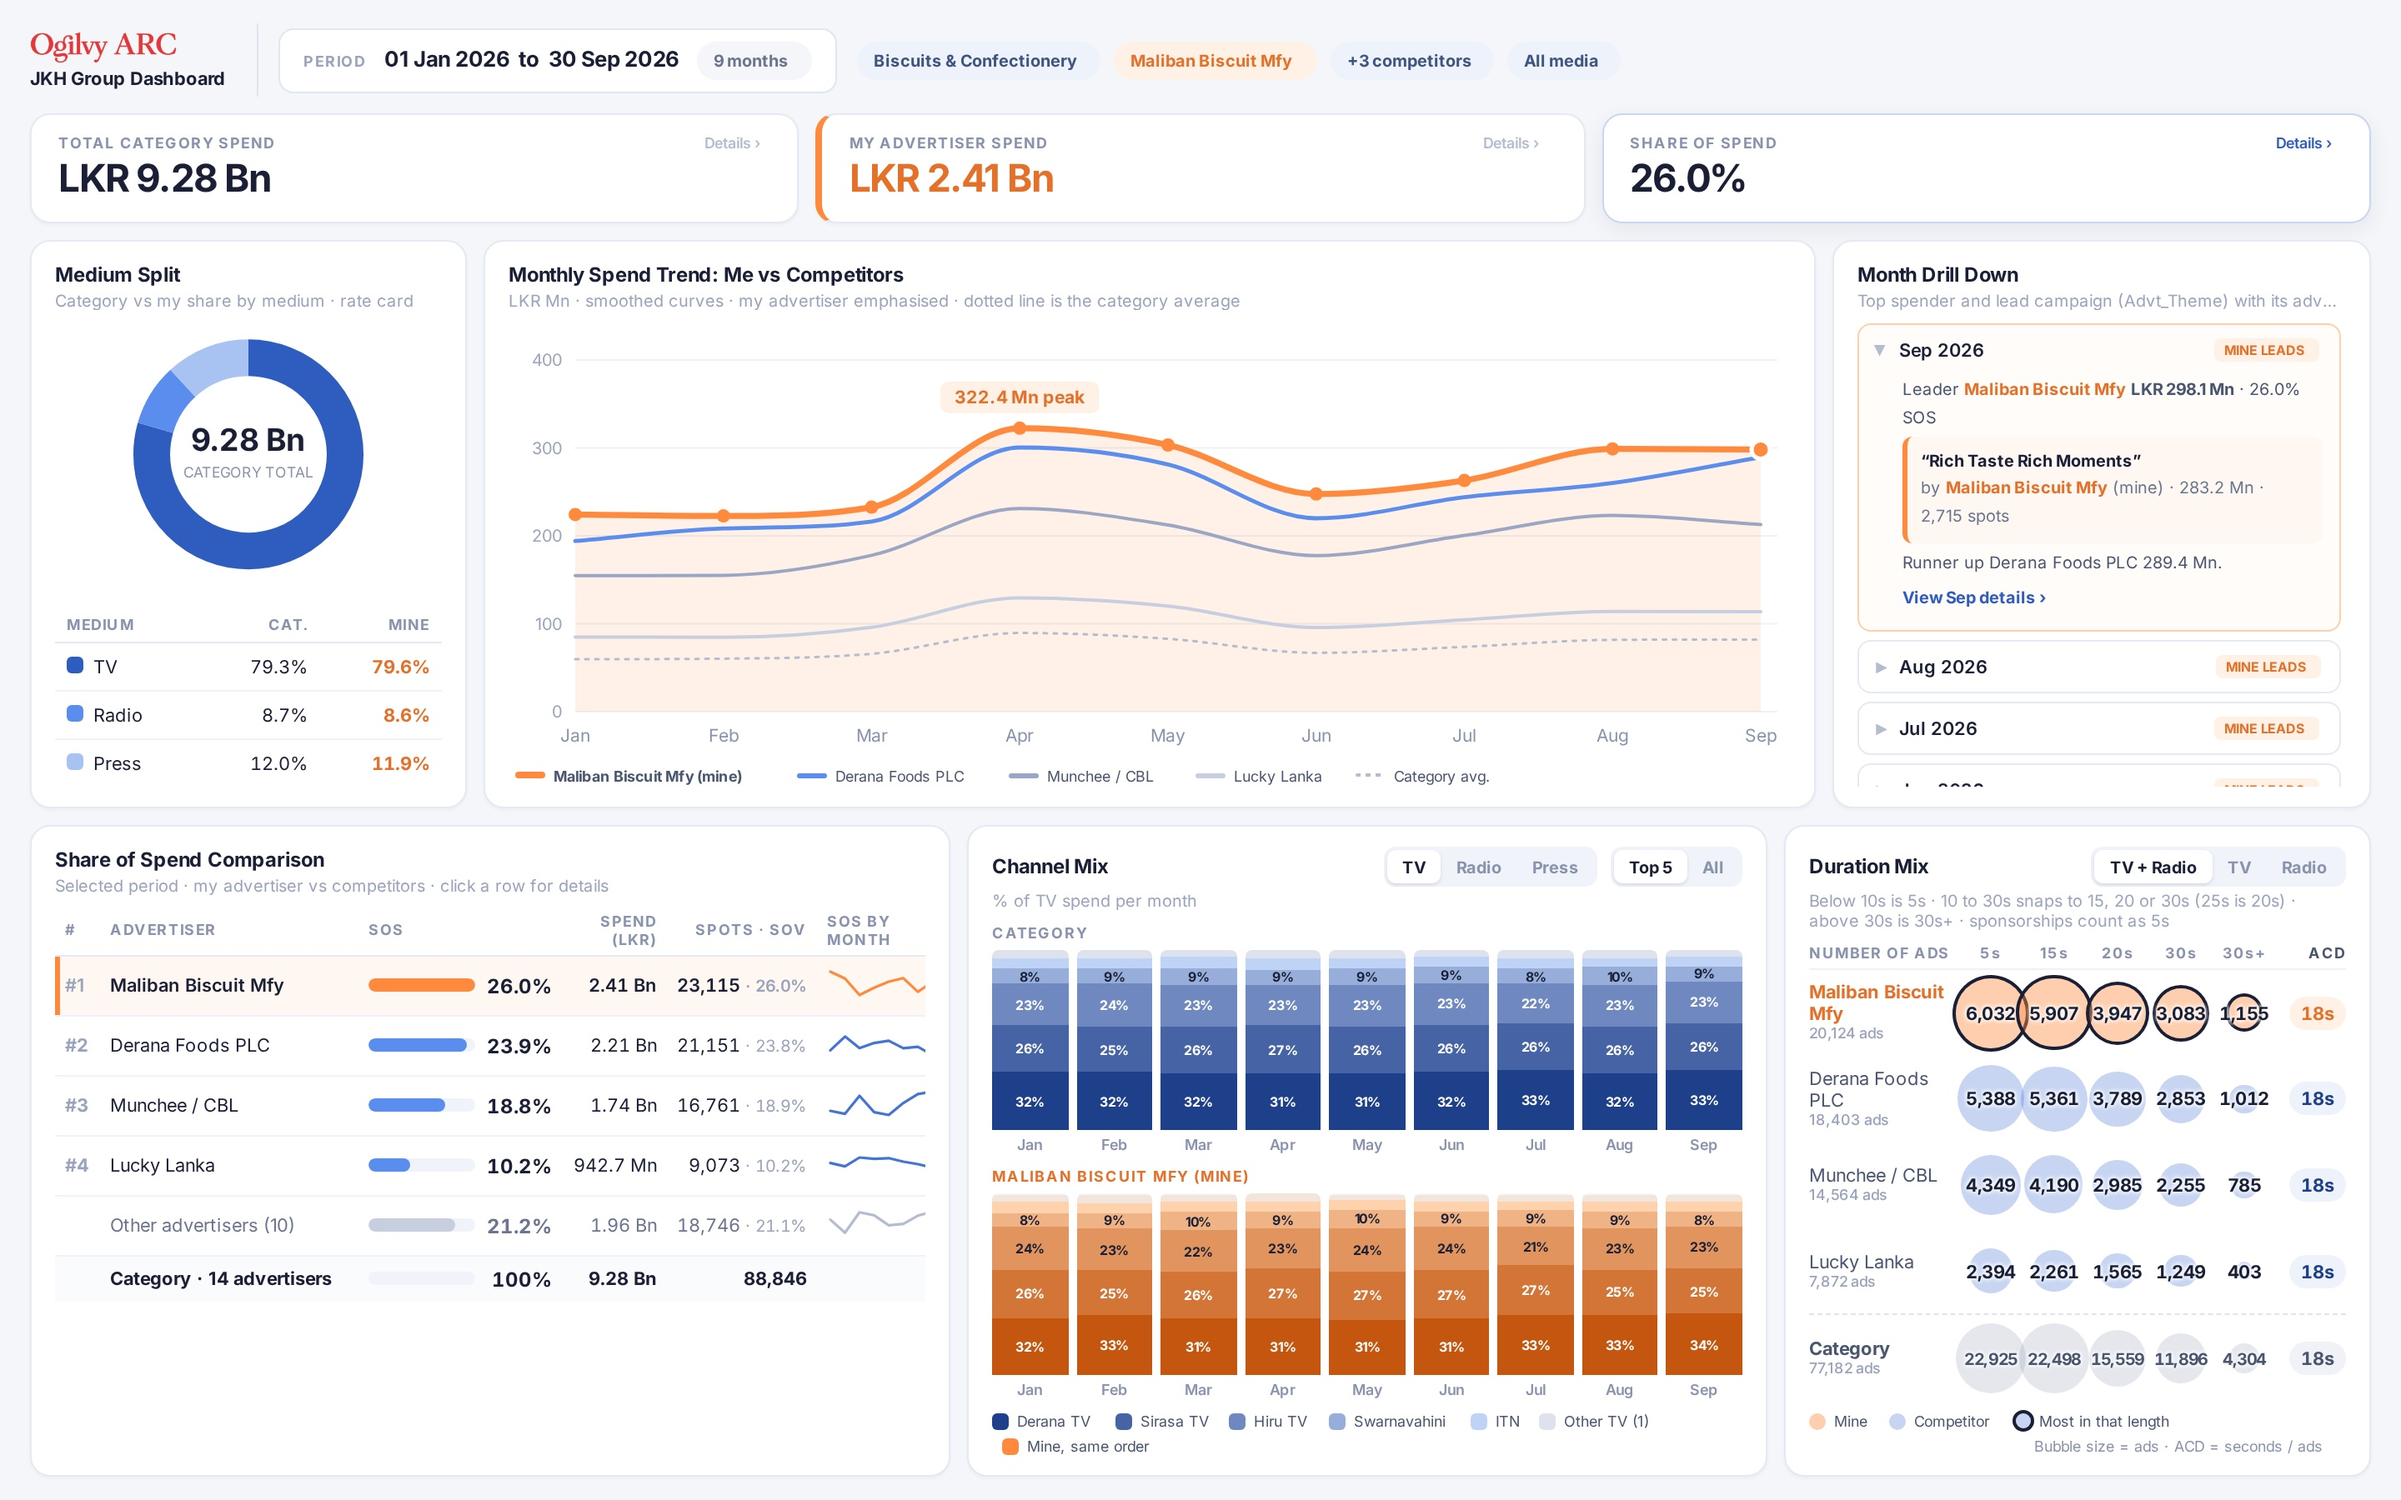
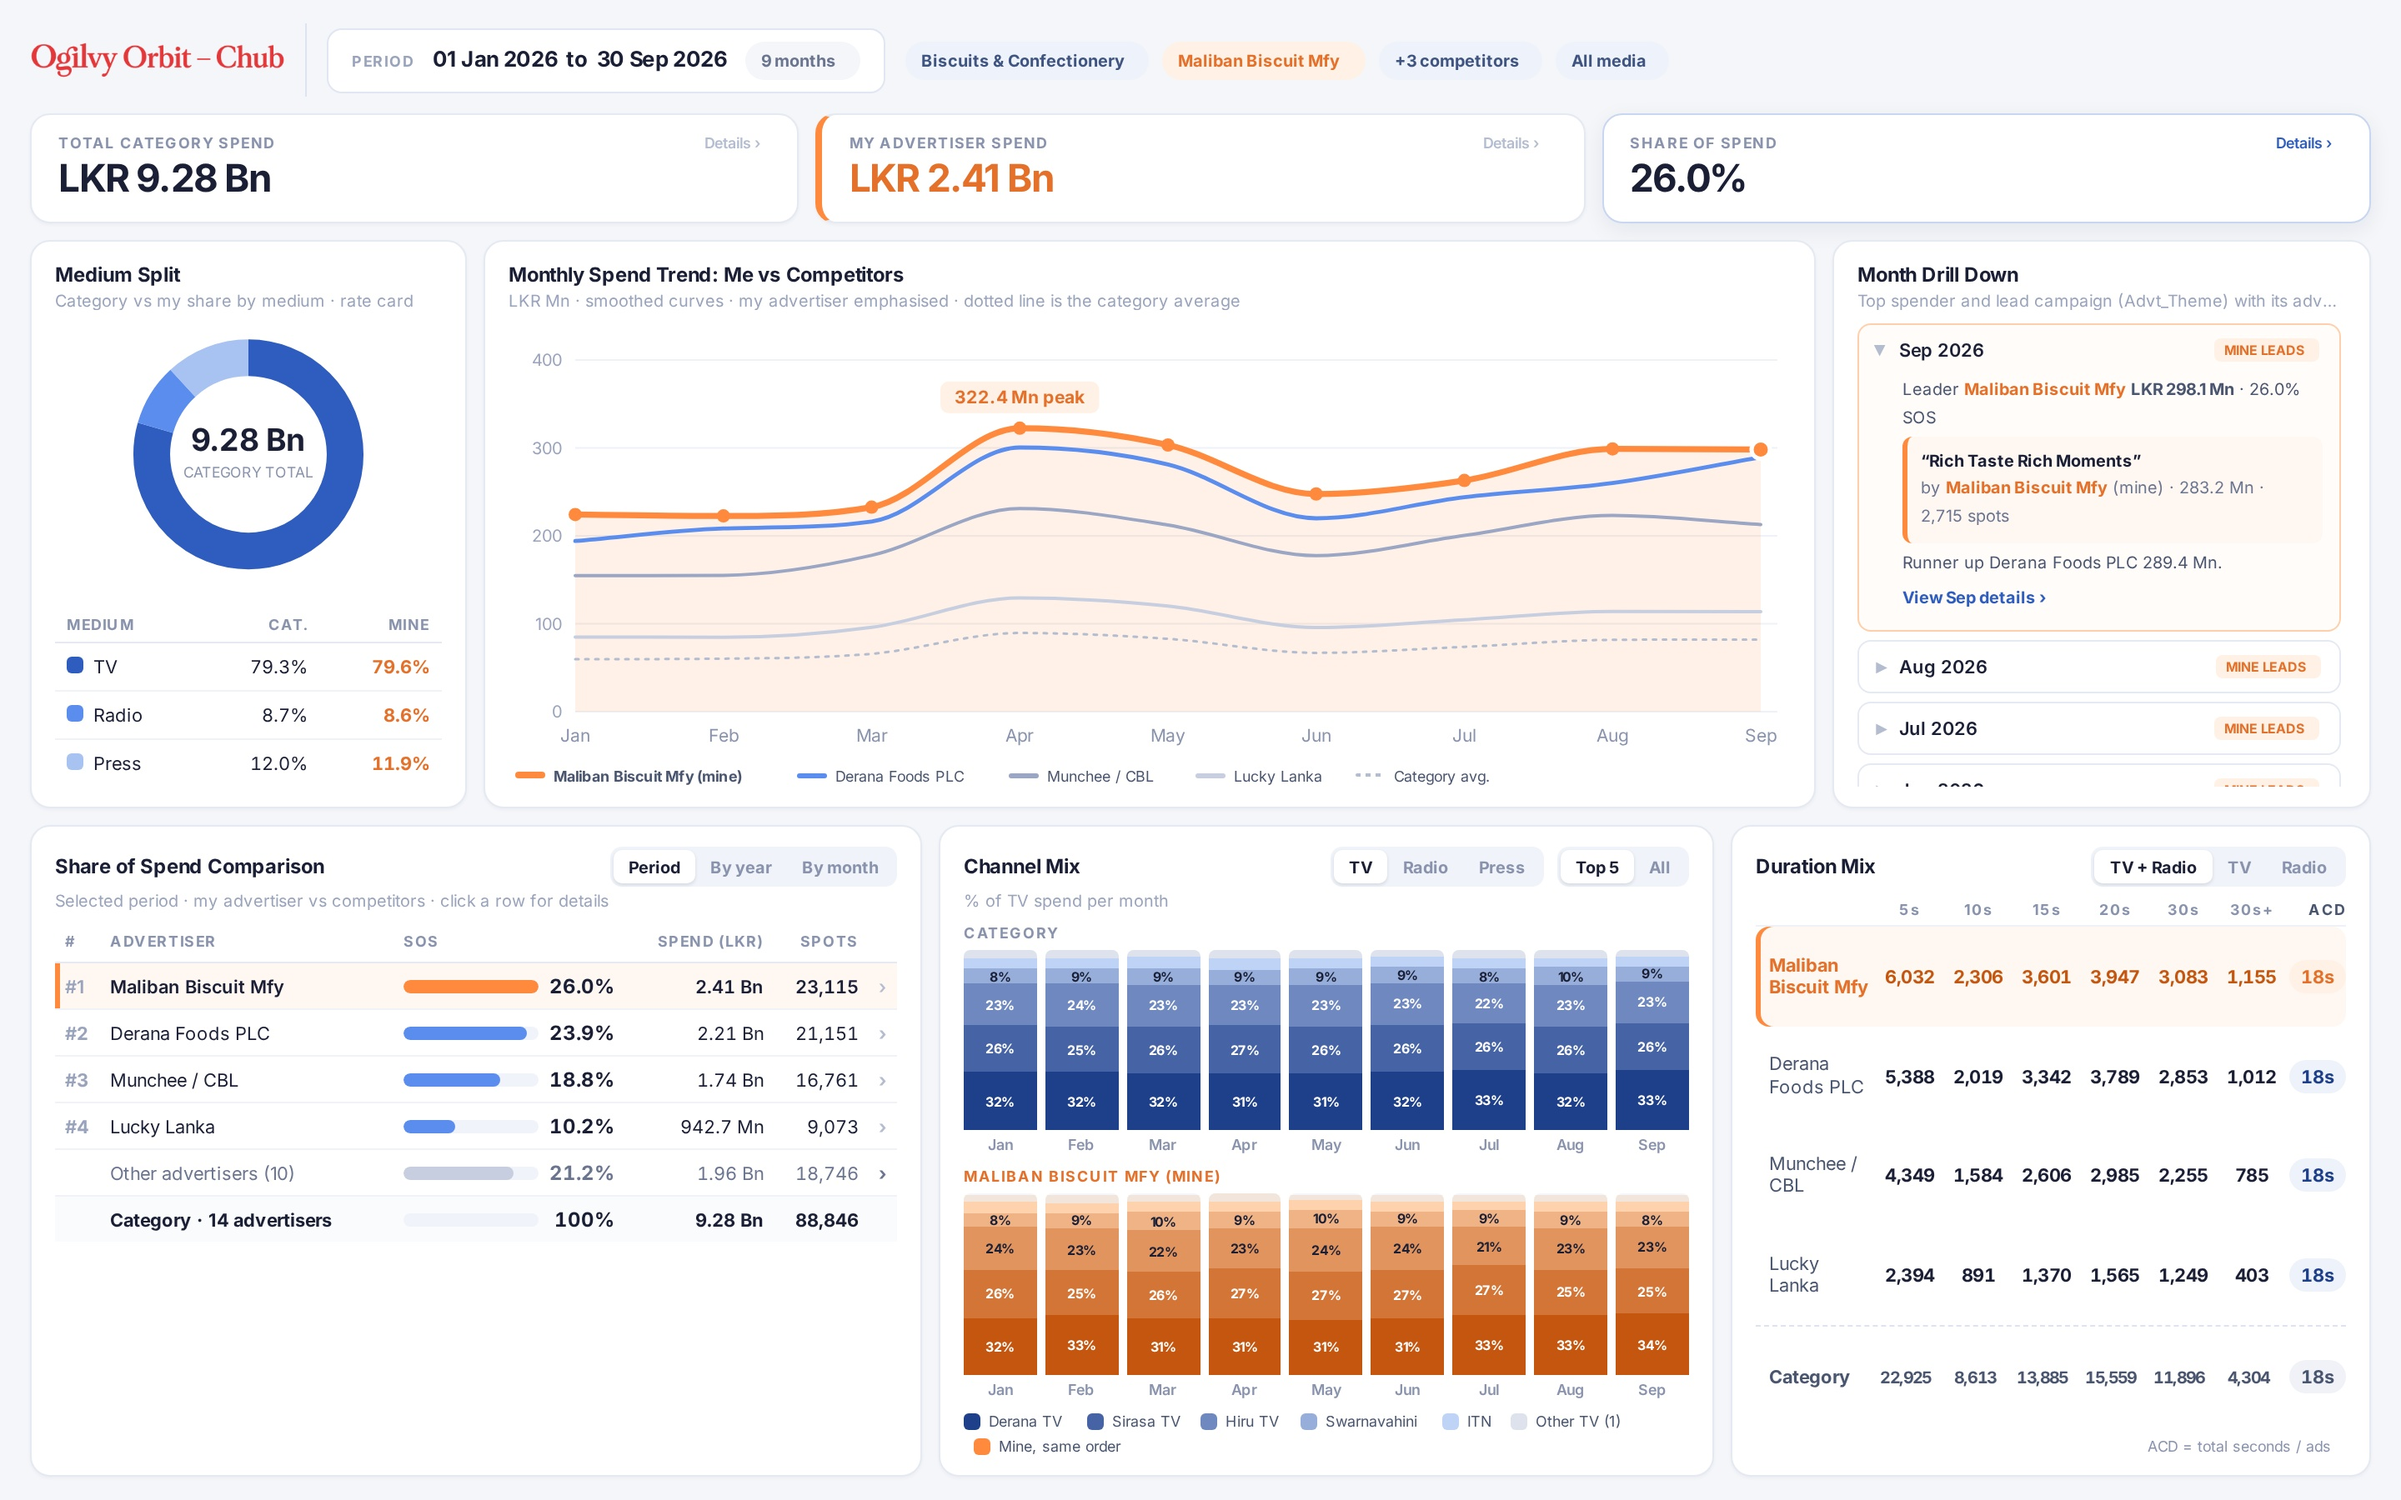
Rebrand to Ogilvy Orbit – Chub
- New logo in the top bar, filter drawer, empty state and every exported
  image (full dashboard and each chart); Ogilvy ARC logo removed
- System name Ogilvy Orbit – Chub in the page title, export file names,
  PDF title, CSV header, README and package name
- Drop the duplicate name text under the logo

Claude-Session: https://claude.ai/code/session_012WBhUq9PKyUmH5bMkQh9DT

Changed region(s): [[0.0312, 0.56, 0.9688, 0.9956], [0.0, 0.0, 0.3438, 0.0622], [0.375, 0.0311, 0.6875, 0.0622]]

diff --git a/public/index.html b/public/index.html
@@ -3,7 +3,7 @@
 <head>
 <meta charset="utf-8">
 <meta name="viewport" content="width=device-width, initial-scale=1">
-<title>JKH Group Dashboard</title>
+<title>Ogilvy Orbit – Chub</title>
 <link rel="icon" href="favicon.png">
 <link rel="stylesheet" href="vendor/inter/400.css">
 <link rel="stylesheet" href="vendor/inter/500.css">
@@ -23,7 +23,7 @@ button,select,input{font-family:inherit}
 #drawerToggle:checked ~ .drawer{transform:translateX(0)}
 .dhead{padding:16px 16px 0;position:relative;flex-shrink:0}
 .brand{padding:2px 22px 12px 0}
-.brand img{height:24px;display:block}
+.brand img{height:22px;display:block;max-width:250px}
 .brandsub{font-size:10.5px;color:#6E7A99;margin-bottom:12px}
 .closeX{position:absolute;top:14px;right:14px;color:#6E7A99;font-size:16px;cursor:pointer;font-weight:700}
 .tabs{display:flex;gap:4px;background:#1E2540;border-radius:9px;padding:3px}
@@ -91,7 +91,7 @@ input[type=date].inp{color-scheme:dark}
 .topbar{display:flex;align-items:center;gap:12px;height:44px;flex-shrink:0;min-width:0}
 .logo{display:flex;align-items:center;gap:10px;flex-shrink:0;padding-right:12px;border-right:1px solid #DDE3EF;height:44px}
 .lstack{display:flex;flex-direction:column;align-items:flex-start;gap:3px}
-.logo img{height:19px;width:auto;display:block}
+.logo img{height:22px;width:auto;display:block}
 .logo .t1{font-size:11.5px;font-weight:700;letter-spacing:-.1px;line-height:1.1;white-space:nowrap;color:#1A1F36}
 .logo .t2{font-size:9.5px;color:#8A93AD;font-weight:600;letter-spacing:.3px;white-space:nowrap}
 .fbtn{background:#141A2E;color:#fff;border:none;border-radius:9px;padding:10px 15px;font-size:12px;font-weight:700;cursor:pointer;display:flex;align-items:center;gap:8px;flex-shrink:0}
@@ -242,7 +242,7 @@ details[open] .chev{transform:rotate(90deg)}
 .overlay{position:absolute;inset:68px 18px 14px 18px;display:none;align-items:center;justify-content:center;z-index:5;background:rgba(244,246,250,.82);border-radius:12px}
 .overlay.on{display:flex}
 .ovcard{background:#fff;border:1px solid #E5E9F2;border-radius:14px;padding:28px 34px;text-align:center;max-width:460px;box-shadow:0 8px 30px rgba(20,26,46,.08)}
-.ovcard .ovlogo{height:34px;margin-bottom:6px}
+.ovcard .ovlogo{height:34px;margin-bottom:16px}
 .ovsub{font-size:12px;font-weight:700;color:#4A5570;letter-spacing:.3px;margin-bottom:14px}
 .ovcard h2{font-size:17px;margin-bottom:6px}
 .ovcard p{font-size:12px;color:#6B7590;line-height:1.6;margin-bottom:16px}
@@ -328,10 +328,10 @@ tr.me .sharebar{background:#FF8A3D}
 /* Export frame for single-chart images */
 .xframe{background:#F4F6FA;padding:16px 20px 20px;font-family:'Inter','Segoe UI',system-ui,sans-serif}
 .xhead{display:flex;align-items:center;gap:14px;margin-bottom:12px}
-.xhead img{height:24px}
+.xhead img{height:26px}
 .xhead div{display:flex;flex-direction:column;border-left:1px solid #DDE3EF;padding-left:14px}
 .xhead b{font-size:13px;color:#1A1F36}
-.xhead span{font-size:10.5px;color:#6B7590;margin-top:1px}
+.xhead span{font-size:11.5px;color:#4A5570;font-weight:600}
 .exporting .card{opacity:1}
 .exporting .acc{overflow:hidden}
 </style>
@@ -343,7 +343,7 @@ tr.me .sharebar{background:#FF8A3D}
 <div class="drawer" id="drawer">
   <div class="dhead">
     <label class="closeX" for="drawerToggle">✕</label>
-    <div class="brand"><img src="ogilvy-arc.png" alt="Ogilvy ARC"></div>
+    <div class="brand"><img src="ogilvy-orbit-chub.png" alt="Ogilvy Orbit – Chub"></div>
     <div class="tabs">
       <button class="tab on" data-pane="paneFilters">Filters</button>
       <button class="tab" data-pane="paneData">Data file<span class="dot" id="dataDot" style="display:none"></span></button>
@@ -431,7 +431,7 @@ tr.me .sharebar{background:#FF8A3D}
 
 <div class="topbar">
   <div class="logo">
-    <div class="lstack"><img src="ogilvy-arc.png" alt="Ogilvy ARC"><div class="t1">JKH Group Dashboard</div></div>
+    <div class="lstack"><img src="ogilvy-orbit-chub.png" alt="Ogilvy Orbit – Chub"></div>
   </div>
   <label class="fbtn" for="drawerToggle" id="filterBtn">☰ Filters</label>
   <div class="daterange">
@@ -508,8 +508,7 @@ tr.me .sharebar{background:#FF8A3D}
 
 <div class="overlay" id="overlay">
   <div class="ovcard">
-    <img src="ogilvy-arc.png" alt="Ogilvy ARC" class="ovlogo">
-    <div class="ovsub">JKH Group Dashboard</div>
+    <img src="ogilvy-orbit-chub.png" alt="Ogilvy Orbit – Chub" class="ovlogo">
     <h2 id="ovTitle">No data uploaded yet</h2>
     <p id="ovText">Open the filter drawer and upload your spot log as .xlsx or .csv. Large files (400k+ rows) take up to a minute to process.</p>
     <label class="fbtn" for="drawerToggle" id="ovBtn">☰ Open Filters</label>
@@ -539,6 +538,6 @@ tr.me .sharebar{background:#FF8A3D}
   </div>
 </div>
 
-<script src="app.js?v=21"></script>
+<script src="app.js?v=22"></script>
 </body>
 </html>

diff --git a/public/app.js b/public/app.js
@@ -977,7 +977,7 @@
     if (!data) return toast('Nothing to export yet');
     ({ jpg: exportImage, pdf: exportPdf, csv: exportCsv })[b.dataset.x]();
   });
-  const fileBase = () => `JKH_Group_Dashboard_${data.filters.pg.replace(/[^\w]+/g, '-')}_${data.filters.from}_to_${data.filters.to}`;
+  const fileBase = () => `Ogilvy_Orbit_Chub_${data.filters.pg.replace(/[^\w]+/g, '-')}_${data.filters.from}_to_${data.filters.to}`;
   const loadScript = src => new Promise((ok, fail) => {
     if (document.querySelector(`script[src="${src}"]`)) return ok();
     const el = document.createElement('script');
@@ -1006,7 +1006,7 @@
     const h = el.offsetHeight;
     const chips = [...document.querySelectorAll('#chips .chip')].filter(c => c.id !== 'busyChip').map(c => c.textContent).join(' · ');
     stage.innerHTML = `<div class="xframe" style="width:${w + 40}px">
-      <div class="xhead"><img src="ogilvy-arc.png" alt="Ogilvy ARC"><div><b>JKH Group Dashboard</b><span>${esc($('periodText').textContent.replace(/\s+/g, ' '))} · ${esc(chips)}</span></div></div>
+      <div class="xhead"><img src="ogilvy-orbit-chub.png" alt="Ogilvy Orbit – Chub"><div><span>${esc($('periodText').textContent.replace(/\s+/g, ' '))} · ${esc(chips)}</span></div></div>
       <div class="xbody"></div></div>`;
     const copy = el.cloneNode(true);
     copy.style.width = w + 'px'; copy.style.height = h + 'px'; copy.style.flex = 'none';
@@ -1046,7 +1046,7 @@
       const [{ url, w, h }] = await Promise.all([captureDashboard(), loadScript('vendor/jspdf/jspdf.umd.min.js')]);
       const { jsPDF } = window.jspdf;
       const pdf = new jsPDF({ orientation: w >= h ? 'landscape' : 'portrait', unit: 'pt', format: [w, h] });
-      pdf.setProperties({ title: 'JKH Group Dashboard', author: 'John Keells Group' });
+      pdf.setProperties({ title: 'Ogilvy Orbit – Chub', author: 'Ogilvy' });
       pdf.addImage(url, 'JPEG', 0, 0, w, h);
       pdf.save(fileBase() + '.pdf');
       toast('PDF downloaded');
@@ -1055,7 +1055,7 @@
   function exportCsv() {
     const d = data, q = v => `"${String(v).replace(/"/g, '""')}"`;
     const lines = [
-      ['JKH Group Dashboard'], ['Period', `${fmtDate(d.filters.from)} to ${fmtDate(d.filters.to)}`], ['Product group', d.filters.pg],
+      ['Ogilvy Orbit – Chub'], ['Period', `${fmtDate(d.filters.from)} to ${fmtDate(d.filters.to)}`], ['Product group', d.filters.pg],
       ['Medium', d.filters.medium], ['Ad type', { Sponsorship: 'Value Additions', Commercial: 'Commercials' }[d.filters.adType] || 'All'], ['Channel', d.filters.channel || 'All'], ['Daypart', d.filters.daypart || 'All'], ['Spend basis', 'Rate card (LKR)'], [],
       ['KPI', 'Value'], ['Category spend', d.kpi.catSpend], ['My spend', d.kpi.mineSpend], ['Share of spend %', d.kpi.sos.toFixed(2)],
       ['Rank', d.kpi.rank ? `${d.kpi.rank} of ${d.kpi.rankOf}` : ''], ['Category spots', d.kpi.catSpots], ['My spots', d.kpi.mineSpots], [],

diff --git a/README.md b/README.md
@@ -1,6 +1,6 @@
-# JKH Group Dashboard
+# Ogilvy Orbit – Chub
 
-A full-screen competitive media spend dashboard by Ogilvy ARC for John Keells Group for Sri Lankan advertisers. Upload a spot log (`.xlsx` or `.csv`, 400k+ rows), choose a product group, pick your advertiser and your competitors, and compare spend, share of spend, medium split, channel mix and duration mix.
+Ogilvy Orbit – Chub: a full-screen competitive media spend dashboard for Sri Lankan advertisers. Upload a spot log (`.xlsx` or `.csv`, 400k+ rows), choose a product group, pick your advertiser and your competitors, and compare spend, share of spend, medium split, channel mix and duration mix.
 
 ![Dashboard](docs/screenshot.jpg)
 
